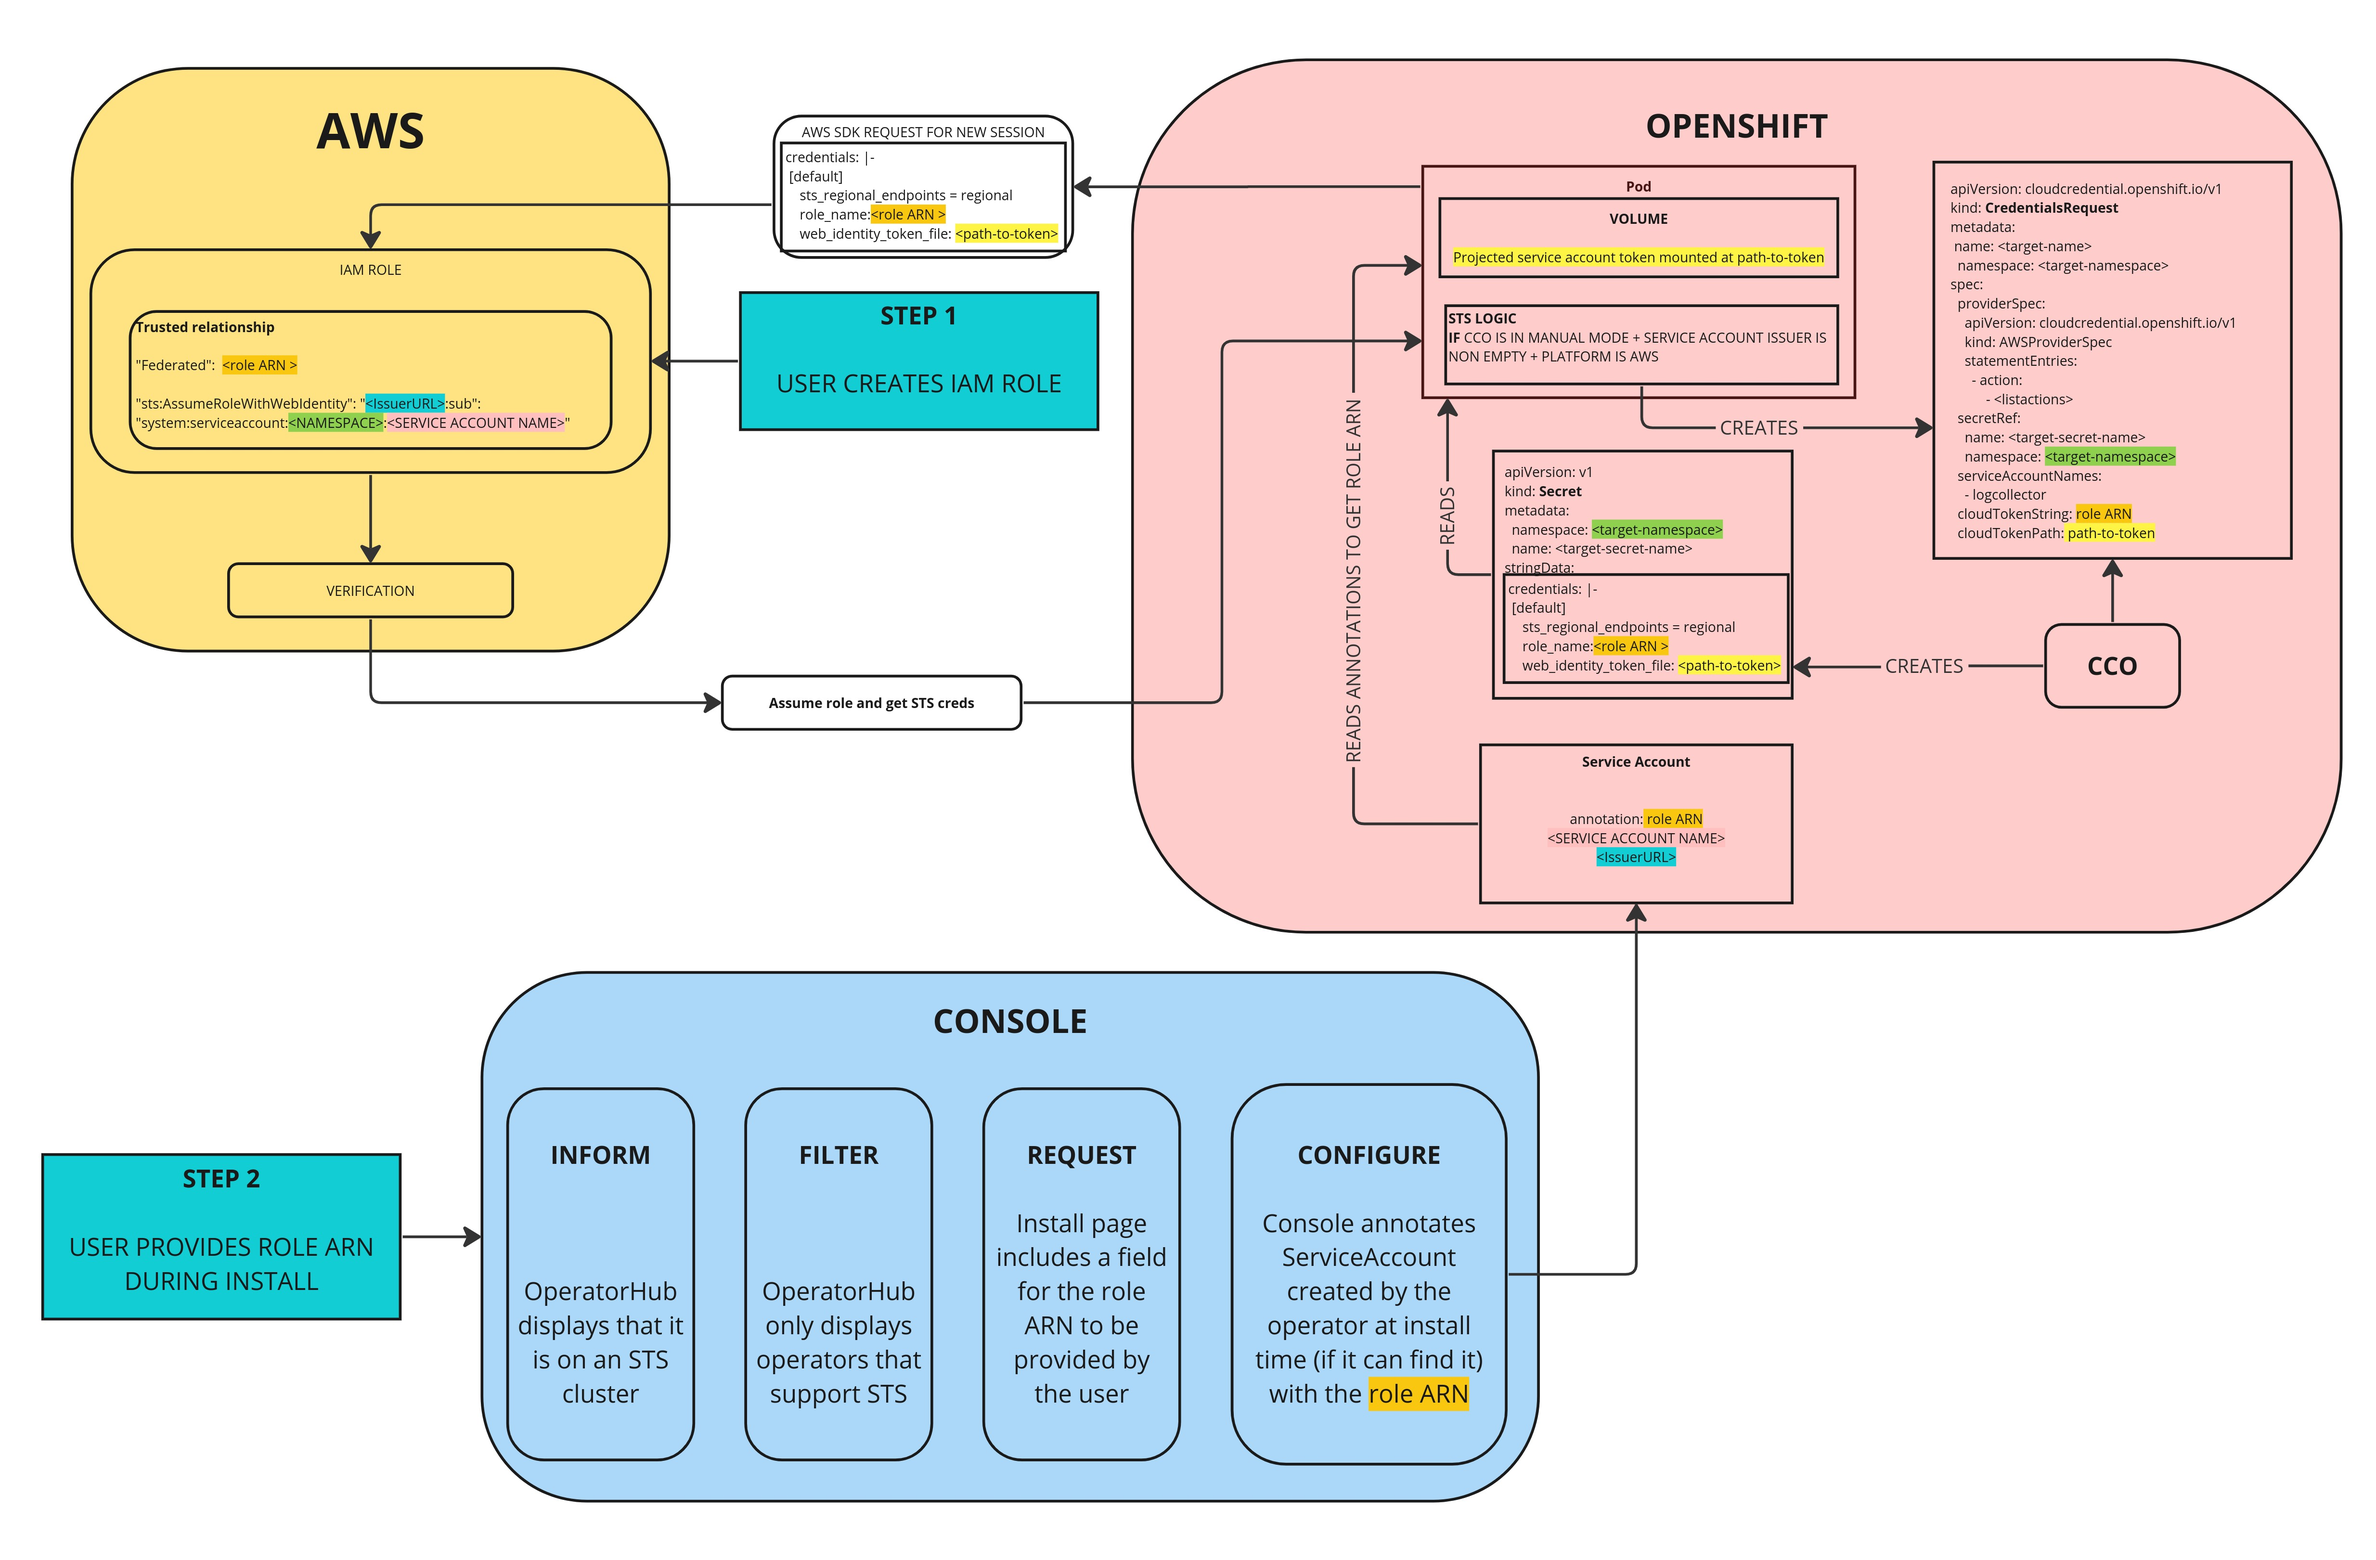
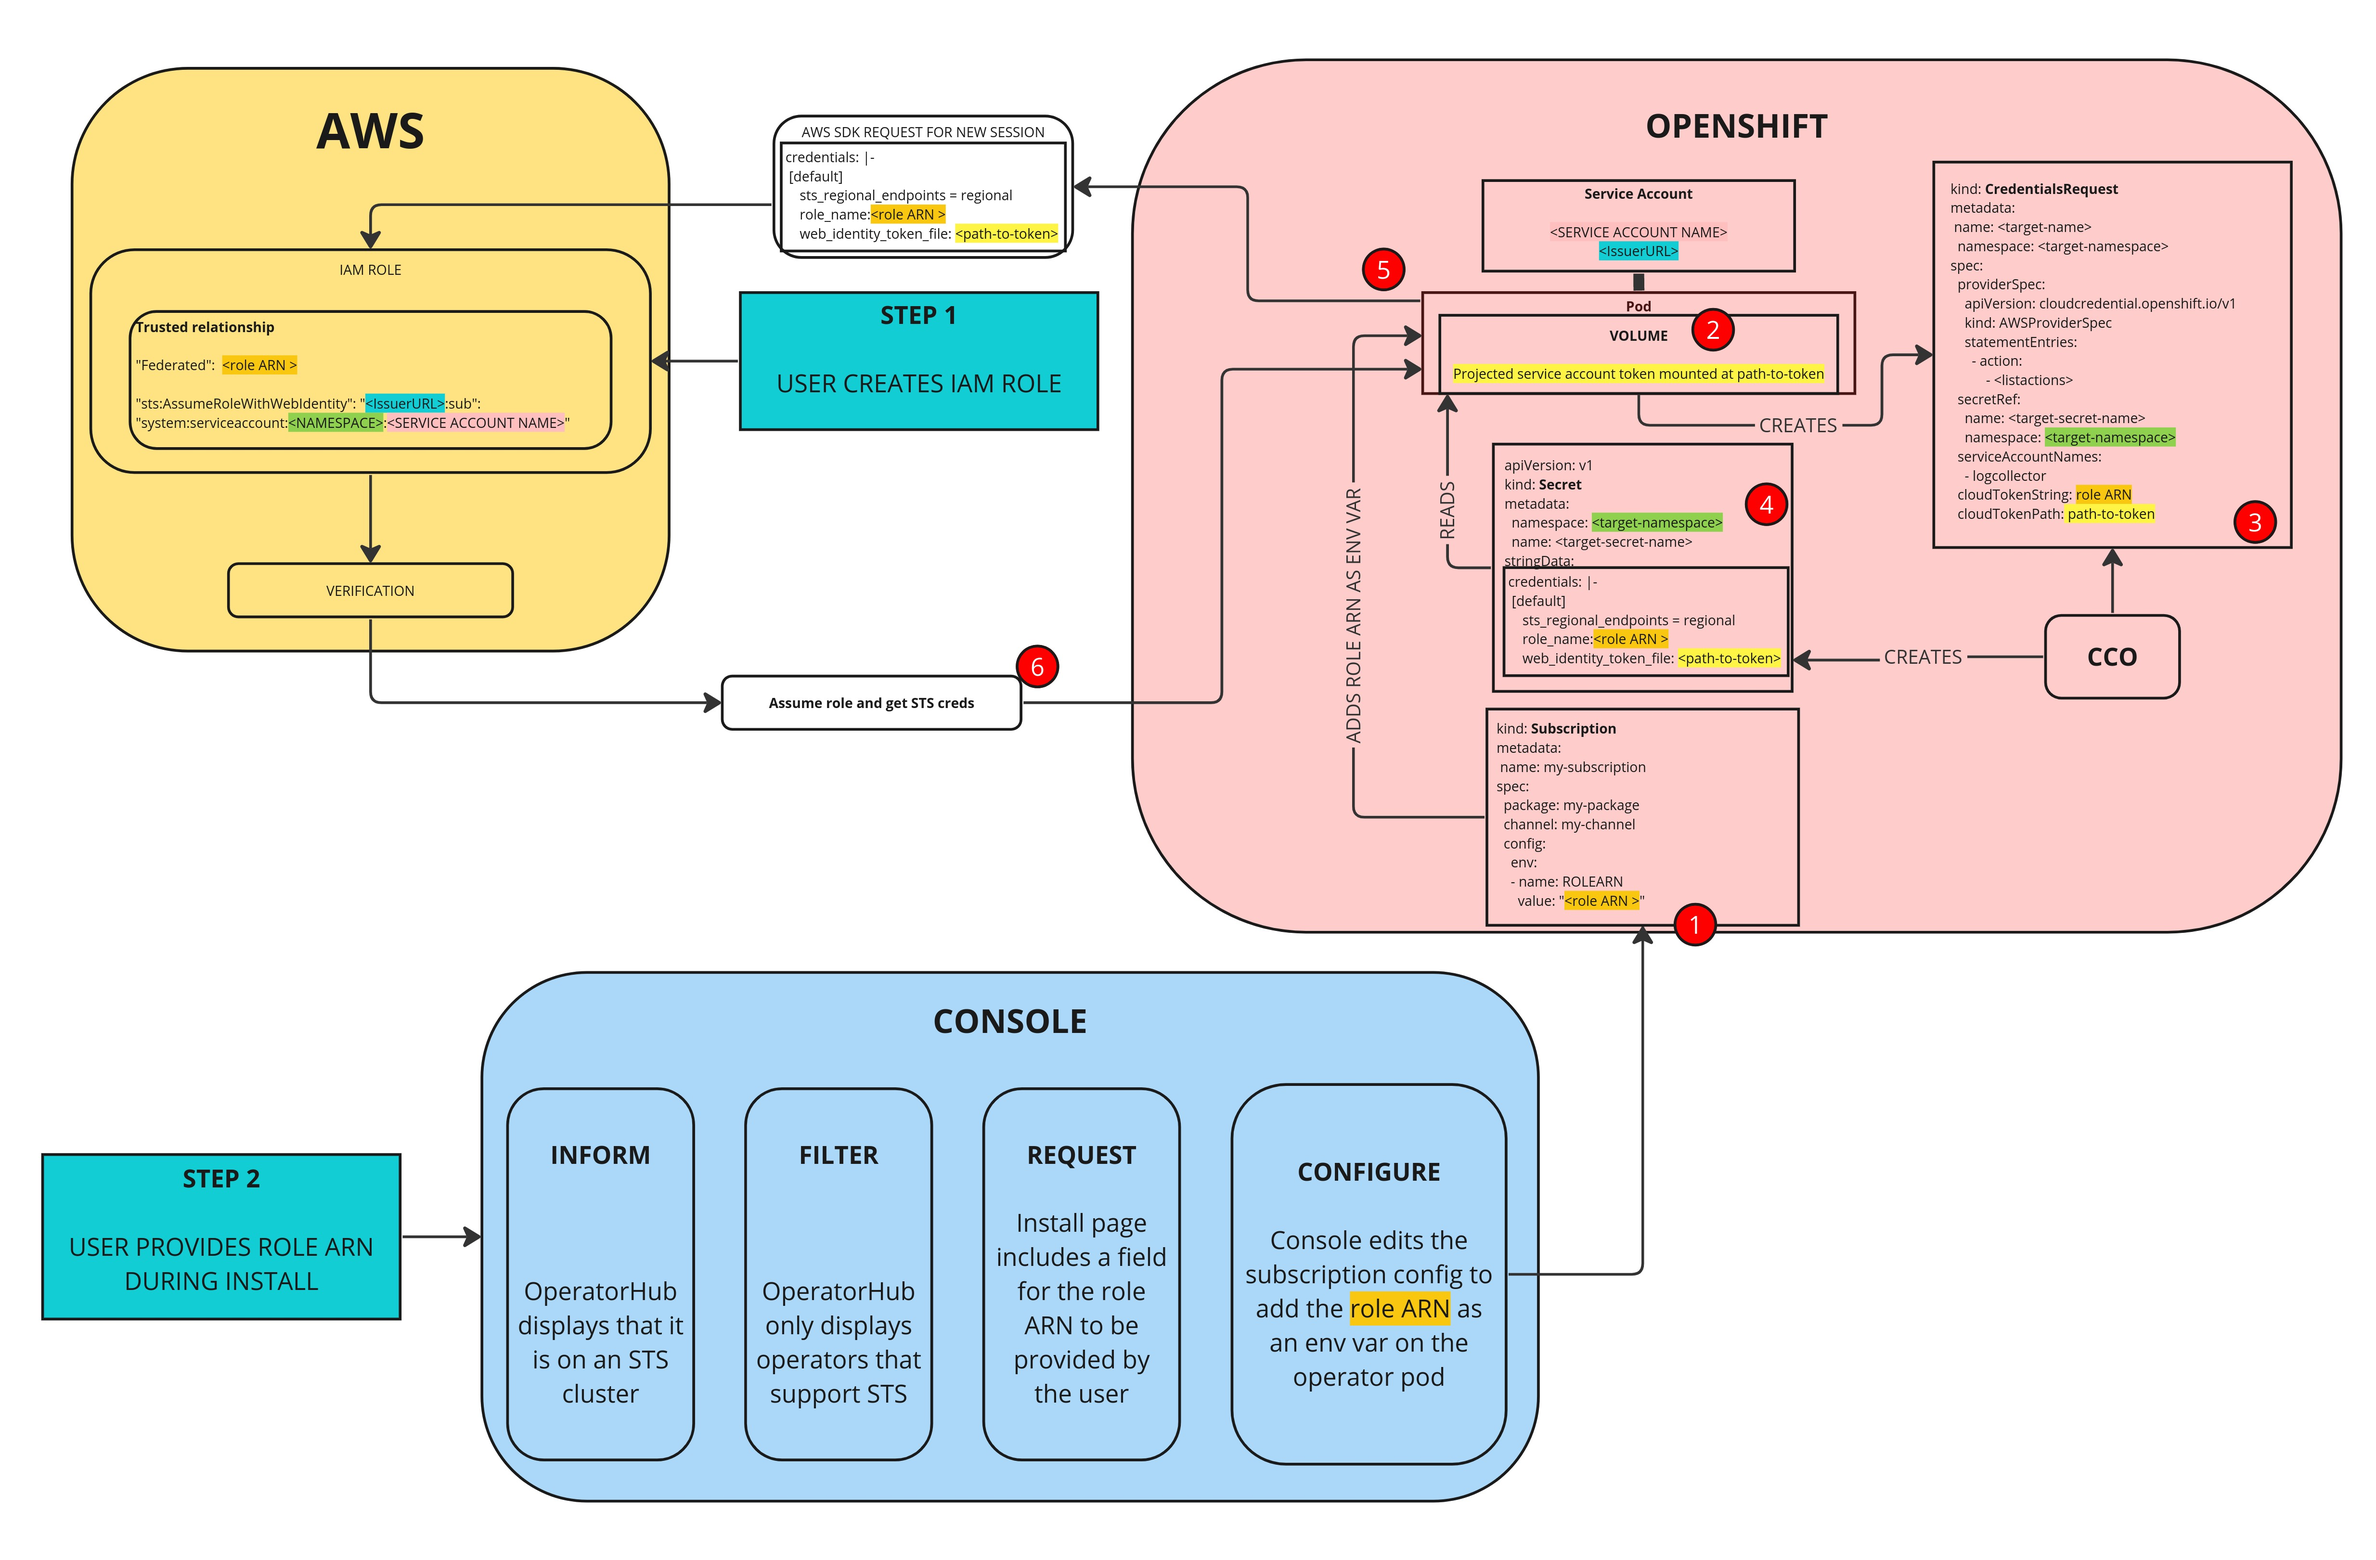
minor updates:
- corrected the diagram
- addressed CLI user flow
- removed SDK changes as out of scope for this EP

diff --git a/enhancements/cloud-integration/tokenized-auth-enablement-operators-on-cloud.md b/enhancements/cloud-integration/tokenized-auth-enablement-operators-on-cloud.md
@@ -73,10 +73,6 @@ if using the [Cloud Credential Operator Utility](https://github.com/openshift/cl
 3. Use `ccoctl` to create the IAM Role
 4. Use `ccoctl` to create the secret with the credentials expected by the operator
 
-Here is a diagram for how this works on AWS:
-
-![](STS_today.jpg)
-
 This enhancement seeks to unify this process across operators so users of several of them have the same experience and
 similar steps to perform. We aim to automate and reduce those steps as much as possible to make installing operators
 (via OLM) simpler on clusters where TAT authentication is supported.
@@ -179,6 +175,18 @@ CredentialsRequest objects added by operators.
 Cloud Provider which will result in ENV variables on the Subscription object that are required in the 
 CredentialsRequests created by the Operator. Setting the Subscription config.ENV will allow UX for the information 
 needed by CCO or webhook, for input of the cloud credentials while not having to change the Subscription API.
+CLI Users will need to add the following to their subscription:
+
+```yaml
+ind: Subscription
+metadata:
+ name: ...
+spec:
+  config:
+    env:
+    - name: ROLEARN
+      value: "<role ARN >"
+```
 
 Show in OperatorHub that the cluster is in a mode that supports token-based authentication by reading the 
 `.spec.serviceAccountIssuer` from the Authentication CR, `.status.platformStatus.type` from the Infrastructure CR,
@@ -191,20 +199,17 @@ Subscription objects. Ensures admin signs off that cloud resources are provision
 operator upgrade. This could be by setting the default subscription mode to Manual in the UI for operators that support 
 TAT.
 
-**Operator team / Operator SDK changes**: Follow new guidelines for allowing for the operator to work on token auth 
+**Operator team changes**: Follow new guidelines for allowing for the operator to work on token auth 
 enabled cluster. New guidelines would include the following to use CCO has detected cluster is using time-based tokens:
 
-- changing CRD to add CredentialRequest references and putting those referenced
-- CredentialRequests into a defined directory in the bundle
+- Changing CSV to add CredentialRequest RBAC
+- Add CredentialRequests into a defined directory in the bundle
 - Add a bundle annotation claiming token-based authentication support
-- Add a bundle annotation indicating which permissions are required
-- add the projected ServiceAccount volume to the Deployment embedded in the CSV;
+- Add a script in the operator description to help set up the correct role
+- (Optional) Add the projected ServiceAccount volume to the Deployment embedded in the CSV;
 - handle the Secret themselves (like today’s CCO Mint mode, read and use the credentials in the Secret whose name they 
   know from the CredentialsRequest and is in the same Namespace)
-- Guidance to operator authors to structure controller code to alert on missing cloud credentials, not crash.
-
-SDK to support this new template. SDK to validate and in particular: alert on any permission changes between operator
-versions.
+- Add structure to controller code to alert on missing cloud credentials, not crash.
 
 ### Workflow Description
 
@@ -228,7 +233,6 @@ Operator installation under the proposed system:
 For the operator author team:
 - Add CredentialRequests to the bundle, known location;
 - Add "role-arn"-type fields to the CredentialRequests
-- Use SDK to validate bundle to catch permission changes or mis-configuration
 - Add eventing to report status on a CR to indicate lacking STS credentials for fully operational deploy or update.
 
 For the Cloud Credential Operator:
